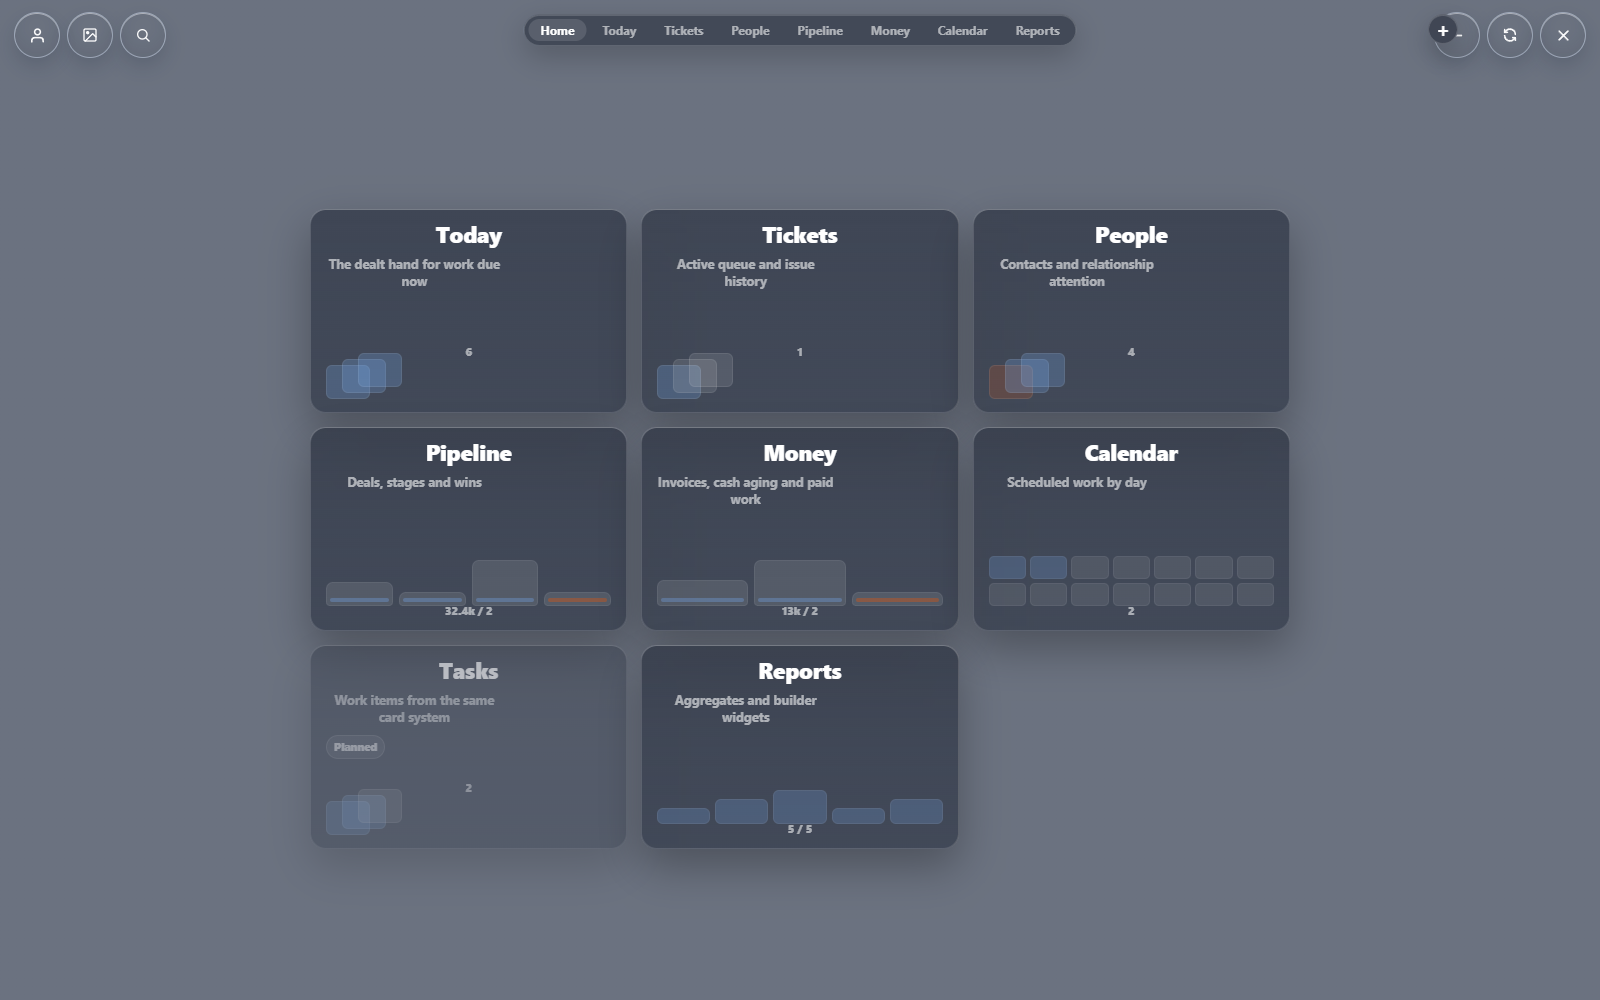
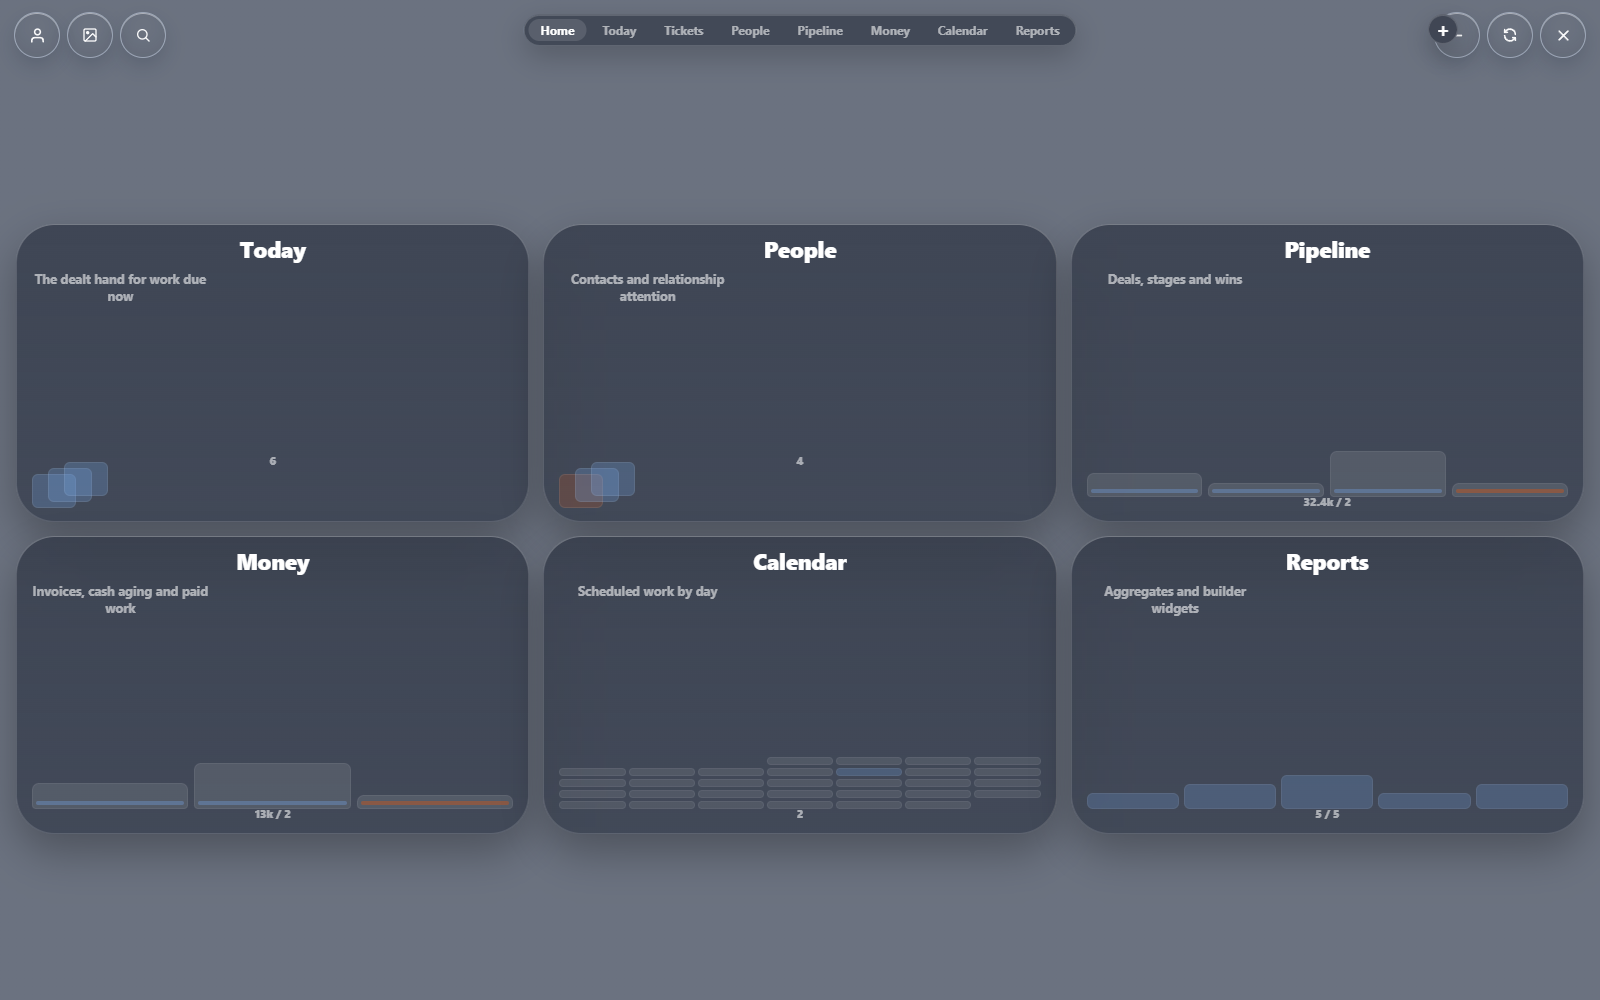
R5: Home is six live fc-bucket miniatures filling the working viewport
crm-home.js drops the Tasks "Planned" placeholder tile and the Tickets tile
(Tickets stays reachable from the top workspace switch and quick-add): six
buckets — Today, People, Pipeline, Money, Calendar, Reports — on a 3x2 grid.
The buckets use the fc-bucket glass recipe from fractal-calendar.js (gradient
body, inset ring + top highlight, k-scaled radius from the measured cell) and
the grid fills expRect() with viewport-aspect-locked cells, exactly the year
view's discipline. The calendar miniature is now a real weekday-aligned month
grid with today lit; the other interiors keep their live-count deck/stage/
widget silhouettes. Clicking a bucket still dives with the shared camera
(3-frame sequence in shots/10-dive-*.png).

diff --git a/dashboard/app/static/crm-home.js b/dashboard/app/static/crm-home.js
@@ -5,14 +5,15 @@
     return;
   }
 
+  // The six live module buckets (REMEDIATION_PLAN R5). Tasks' "Planned"
+  // placeholder tile is gone until the module exists; Tickets stays reachable
+  // from the top workspace switch and quick-add.
   const MODULES = [
     { key: "today", label: "Today", note: "The dealt hand for work due now", enabled: true },
-    { key: "tickets", label: "Tickets", note: "Active queue and issue history", enabled: true },
     { key: "people", label: "People", note: "Contacts and relationship attention", enabled: true },
     { key: "pipeline", label: "Pipeline", note: "Deals, stages and wins", enabled: true },
     { key: "money", label: "Money", note: "Invoices, cash aging and paid work", enabled: true },
     { key: "calendar", label: "Calendar", note: "Scheduled work by day", enabled: true },
-    { key: "tasks", label: "Tasks", note: "Work items from the same card system", status: "Planned" },
     { key: "reports", label: "Reports", note: "Aggregates and builder widgets", enabled: true },
   ];
   let camera = null;
@@ -132,10 +133,13 @@
       .crm-home-surface[hidden] { display: none; }
       .crm-home-level { position: absolute; inset: 0; transform-origin: 0 0; }
       .crm-home-grid { position: absolute; display: grid; pointer-events: auto; -webkit-app-region: no-drag;
-        grid-template-columns: repeat(3, minmax(0, 1fr)); grid-template-rows: repeat(3, minmax(0, 1fr)); gap: 14px; }
+        grid-template-columns: repeat(3, minmax(0, 1fr)); grid-template-rows: repeat(2, minmax(0, 1fr)); gap: 14px; }
+      /* The fc-bucket glass recipe (fractal-calendar.js is the source): gradient
+         body, inset ring + top highlight, k-scaled radius from the bucket's own
+         measured size (--home-r, set in layout()). */
       .crm-home-bucket { position: relative; box-sizing: border-box; display: flex; flex-direction: column; min-height: 0;
-        overflow: hidden; color: #fff; cursor: pointer;
-        border-radius: 16px; padding: 14px 16px;
+        overflow: hidden; color: #fff; cursor: pointer; border: 0;
+        border-radius: var(--home-r, 16px); padding: 14px 16px;
         background: linear-gradient(180deg, rgba(22,26,36,0.5), rgba(12,16,24,0.42));
         -webkit-backdrop-filter: blur(28px) saturate(140%); backdrop-filter: blur(28px) saturate(140%);
         box-shadow: inset 0 0 0 1px rgba(255,255,255,0.14), inset 0 1px 0 rgba(255,255,255,0.18), 0 18px 42px rgba(0,0,0,0.28);
@@ -144,16 +148,8 @@
         background: linear-gradient(180deg, rgba(70,110,190,0.34), rgba(40,70,130,0.26));
         box-shadow: inset 0 0 0 1px rgba(125,180,255,0.5), 0 0 30px rgba(90,150,255,0.42);
       }
-      .crm-home-bucket[aria-disabled="true"] { cursor: default; opacity: .54; }
-      .crm-home-bucket[aria-disabled="true"]:hover {
-        background: linear-gradient(180deg, rgba(22,26,36,0.5), rgba(12,16,24,0.42));
-        box-shadow: inset 0 0 0 1px rgba(255,255,255,0.14), inset 0 1px 0 rgba(255,255,255,0.18), 0 18px 42px rgba(0,0,0,0.28);
-      }
       .crm-home-title { font-size: clamp(1rem, 2.4vw, 1.35rem); font-weight: 800; line-height: 1.1; }
       .crm-home-note { margin-top: 8px; font-size: 0.8rem; line-height: 1.35; color: rgba(255,255,255,0.58); max-width: 24ch; }
-      .crm-home-status { margin-top: 10px; width: fit-content; border-radius: 999px; padding: 3px 7px;
-        font-size: 0.68rem; font-weight: 800; color: rgba(255,255,255,0.62); background: rgba(255,255,255,0.08);
-        border: 1px solid rgba(255,255,255,0.10); }
       .crm-home-preview { margin-top: auto; min-height: 52px; opacity: .82; color: rgba(255,255,255,0.62); }
       .crm-home-count { font-size: .68rem; font-weight: 800; line-height: 1; color: rgba(255,255,255,0.68); }
       .crm-home-stack-preview { position: relative; height: 52px; }
@@ -168,7 +164,7 @@
         background: rgba(255,255,255,0.12); box-shadow: inset 0 0 0 1px rgba(255,255,255,0.08); overflow: hidden; }
       .crm-home-mini-stage::after { content: ""; position: absolute; left: 4px; right: 4px; bottom: 4px; height: 4px; border-radius: 999px; background: rgba(125,180,255,0.36); }
       .crm-home-mini-stage[data-hot="true"]::after { background: rgba(234,88,12,0.44); }
-      .crm-home-calendar-preview { display: grid; grid-template-columns: repeat(7, 1fr); grid-template-rows: repeat(2, 1fr); gap: 4px; height: 50px; }
+      .crm-home-calendar-preview { display: grid; grid-template-columns: repeat(7, 1fr); grid-template-rows: repeat(5, 1fr); gap: 3px; height: 52px; }
       .crm-home-mini-day { border-radius: 5px; background: rgba(255,255,255,0.10); box-shadow: inset 0 0 0 1px rgba(255,255,255,0.07); }
       .crm-home-mini-day.is-on { background: rgba(125,180,255,0.24); }
       .crm-home-report-preview { height: 50px; display: grid; grid-template-columns: repeat(5, 1fr); gap: 5px; align-items: end; }
@@ -197,20 +193,29 @@
       }).join("") +
       `</div><div class="crm-home-count">${esc(compact(stages.reduce((sum, stage) => sum + (stage.value || 0), 0)))} / ${esc(compact(stages.reduce((sum, stage) => sum + (stage.count || 0), 0)))}</div>`;
   };
-  const calendarPreview = (count) => `<div class="crm-home-calendar-preview">${Array.from({ length: 14 }, (_v, idx) => (
-    `<span class="crm-home-mini-day${idx < Math.min(14, count) ? " is-on" : ""}"></span>`
-  )).join("")}</div><div class="crm-home-count">${esc(compact(count))}</div>`;
+  // A real miniature month: the current month's day grid, weekday-aligned,
+  // with today lit — the calendar's own shape at k-scale, not an abstract row.
+  const calendarPreview = (count) => {
+    const now = new Date();
+    const first = new Date(now.getFullYear(), now.getMonth(), 1).getDay();
+    const days = new Date(now.getFullYear(), now.getMonth() + 1, 0).getDate();
+    const today = now.getDate();
+    const cells = Array.from({ length: 35 }, (_v, idx) => {
+      const day = idx - first + 1;
+      if (day < 1 || day > days) return '<span></span>';
+      return `<span class="crm-home-mini-day${day === today ? " is-on" : ""}"></span>`;
+    }).join("");
+    return `<div class="crm-home-calendar-preview">${cells}</div><div class="crm-home-count">${esc(compact(count))}</div>`;
+  };
   const reportPreview = (active, total) => `<div class="crm-home-report-preview">${Array.from({ length: total || 5 }, (_v, idx) => (
     `<span class="crm-home-mini-widget${idx < active ? " is-on" : ""}" style="height:${16 + (idx % 3) * 9}px"></span>`
   )).join("")}</div><div class="crm-home-count">${esc(compact(active))} / ${esc(compact(total || 5))}</div>`;
   const previewHTML = (key) => {
     if (key === "today") return stackPreview(homeStats.today.count, 0);
-    if (key === "tickets") return stackPreview(homeStats.tickets.count, 0);
     if (key === "people") return stackPreview(homeStats.people.count, homeStats.people.attention);
     if (key === "pipeline") return stagePreview(homeStats.pipeline.stages, "negotiation");
     if (key === "money") return stagePreview(homeStats.money.stages, "overdue");
     if (key === "calendar") return calendarPreview(homeStats.calendar.count);
-    if (key === "tasks") return stackPreview(homeStats.tasks.count, 0);
     if (key === "reports") return reportPreview(homeStats.reports.active, homeStats.reports.widgets);
     return "";
   };
@@ -218,7 +223,6 @@
   const bucketHTML = (module) => `
     <div class="crm-home-title">${esc(module.label)}</div>
     <div class="crm-home-note">${esc(module.note)}</div>
-    ${module.status ? `<div class="crm-home-status">${esc(module.status)}</div>` : ""}
     <div class="crm-home-preview" aria-hidden="true">${previewHTML(module.key)}</div>`;
 
   const buildRoot = () => {
@@ -240,20 +244,33 @@
     return root;
   };
 
+  // Fill the working viewport the way the calendar's year view does: cells
+  // aspect-locked to the viewport, the 3x2 grid centred inside expRect(), the
+  // bucket radius k-scaled from the measured cell (fc's RADIUS_F discipline).
+  const RADIUS_F = 16 / 245;
   const layout = ({ expRect }) => {
-    const grid = camera?.surface?.()?.querySelector(".crm-home-grid");
+    const surface = camera?.surface?.();
+    const grid = surface?.querySelector(".crm-home-grid");
     if (!grid) return;
+    const GAP = 14, COLS = 3, ROWS = 2;
     const E = expRect();
-    const maxW = Math.min(E.w, 980);
-    const maxH = Math.min(E.h, 640);
-    const width = Math.max(320, maxW);
-    const height = Math.max(360, maxH);
+    const aspect = E.w / E.h;
+    let cellW = (E.w - (COLS - 1) * GAP) / COLS;
+    let cellH = cellW / aspect;
+    if (ROWS * cellH + (ROWS - 1) * GAP > E.h) {
+      cellH = (E.h - (ROWS - 1) * GAP) / ROWS;
+      cellW = cellH * aspect;
+    }
+    const gridW = COLS * cellW + (COLS - 1) * GAP;
+    const gridH = ROWS * cellH + (ROWS - 1) * GAP;
     Object.assign(grid.style, {
-      left: `${Math.round(E.x + (E.w - width) / 2)}px`,
-      top: `${Math.round(E.y + (E.h - height) / 2)}px`,
-      width: `${Math.round(width)}px`,
-      height: `${Math.round(height)}px`,
+      left: `${(E.x + (E.w - gridW) / 2).toFixed(2)}px`,
+      top: `${(E.y + (E.h - gridH) / 2).toFixed(2)}px`,
+      width: `${gridW.toFixed(2)}px`,
+      height: `${gridH.toFixed(2)}px`,
     });
+    const radius = Math.min(64, Math.max(2, RADIUS_F * Math.min(cellW, cellH) * 2));
+    surface.style.setProperty("--home-r", `${radius.toFixed(1)}px`);
   };
 
   const targetAtPoint = (x, y, context) => {